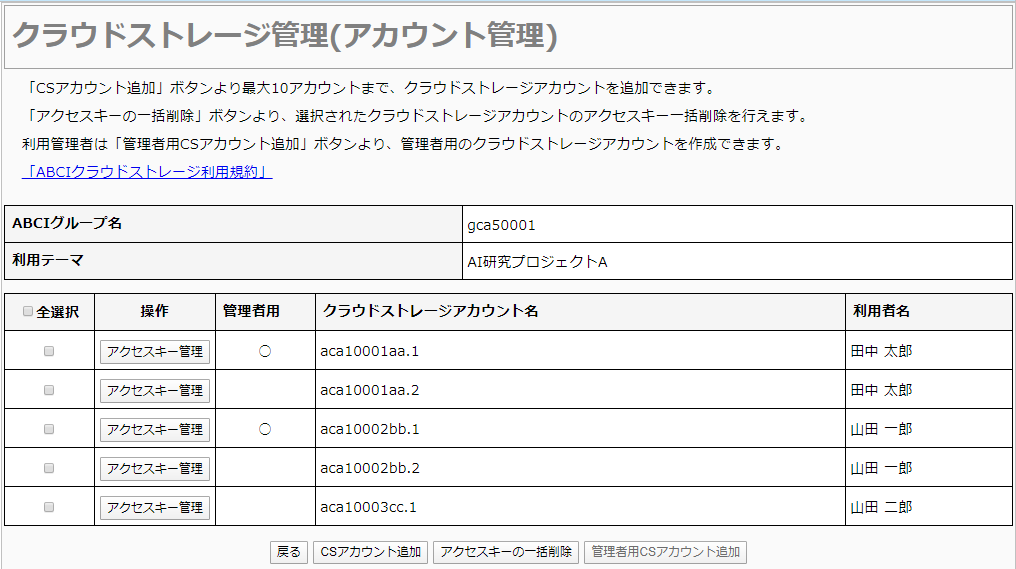
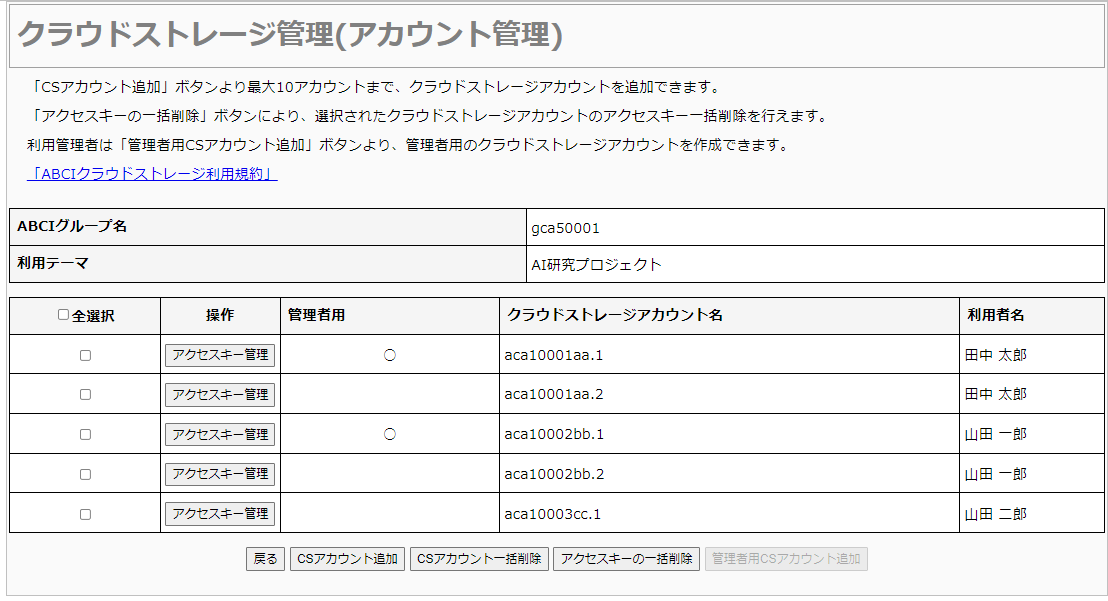
modified abci-user-manual for portal

Changed region(s): [[0.0, 0.0, 1.0, 1.0]]

diff --git a/portal/en/docs/03.md b/portal/en/docs/03.md
@@ -288,6 +288,34 @@ To reapply for the application, launch your favorite browser and copy/paste the 
 
 You can correct it from the input content correction screen and apply again.
 
+
+### 3.5.8. Change a bill address or budget code  
+
+Select the ABCI group from the list of group management, and click the "Change a bill address or budget code" button.
+ 
+![[[Screenshot]]](img/3_27_2.png)
+
+Enter each items about the group, and click the "OK" button.  
+The entry of "*" is mandatory.  
+
+![[[Screenshot]]](img/3_27_3.png)
+
+When changing a bill address or budget code is applied successfully, the message will be displayed.  
+When your application is approved, the applicant will be notified by e-mail.  
+
+### 3.5.9. Change theme and overview  
+
+Select the ABCI group from the list of group management, and click the "Change theme and overview" button.
+ 
+![[[Screenshot]]](img/3_27_4.png)
+
+Enter each items about the group, and click the "OK" button.  
+
+![[[Screenshot]]](img/3_27_5.png)
+
+When changing theme and overview is applied successfully, the message will be displayed.  
+When your application is approved, the applicant will be notified by e-mail.  
+
 ## 3.6. Manage ABCI Cloud Storage {#manage-cloudstorage}
 
 Click the "Cloud Storage Management" on the side menu.
@@ -335,7 +363,16 @@ All users belonging to the ABCI group and adding Cloud Storage account is displa
 
 ![[[Screenshot]]](img/3_34.png)
 
-#### 3.6.2.2 Delete Access Key {#delete-access-key}
+#### 3.6.2.2 Delete Cloud Storage accounts at Once  
+
+Check the check boxes that you want to delete and Click "Delete CS Account", dialog box to confirm deletion of the Cloud Storage accounts.
+Click "OK" on the dialogbox, the Cloud Storage accounts are deleted.
+
+![[[Screenshot]]](img/3_37.png)
+
+A screen appears that the Cloud Storage accounts has been deleted. 
+
+#### 3.6.2.3 Delete Access Key {#delete-access-key}
 
 Click "Manage access key" button.
 
@@ -343,7 +380,7 @@ Click "Manage access key" button.
 
 Click "Delete" button which you want to delete, and click "OK" on the dialog box.
 
-#### 3.6.2.3 Delete Access Keys at Once {#delete-access-keys}
+#### 3.6.2.4 Delete Access Keys at Once {#delete-access-keys}
 
 Check the check boxes that you want to delete and Click "Delete access key", dialog box to confirm deletion of the access keys appears.
 Click "OK" on the dialogbox, the access keys are deleted.
